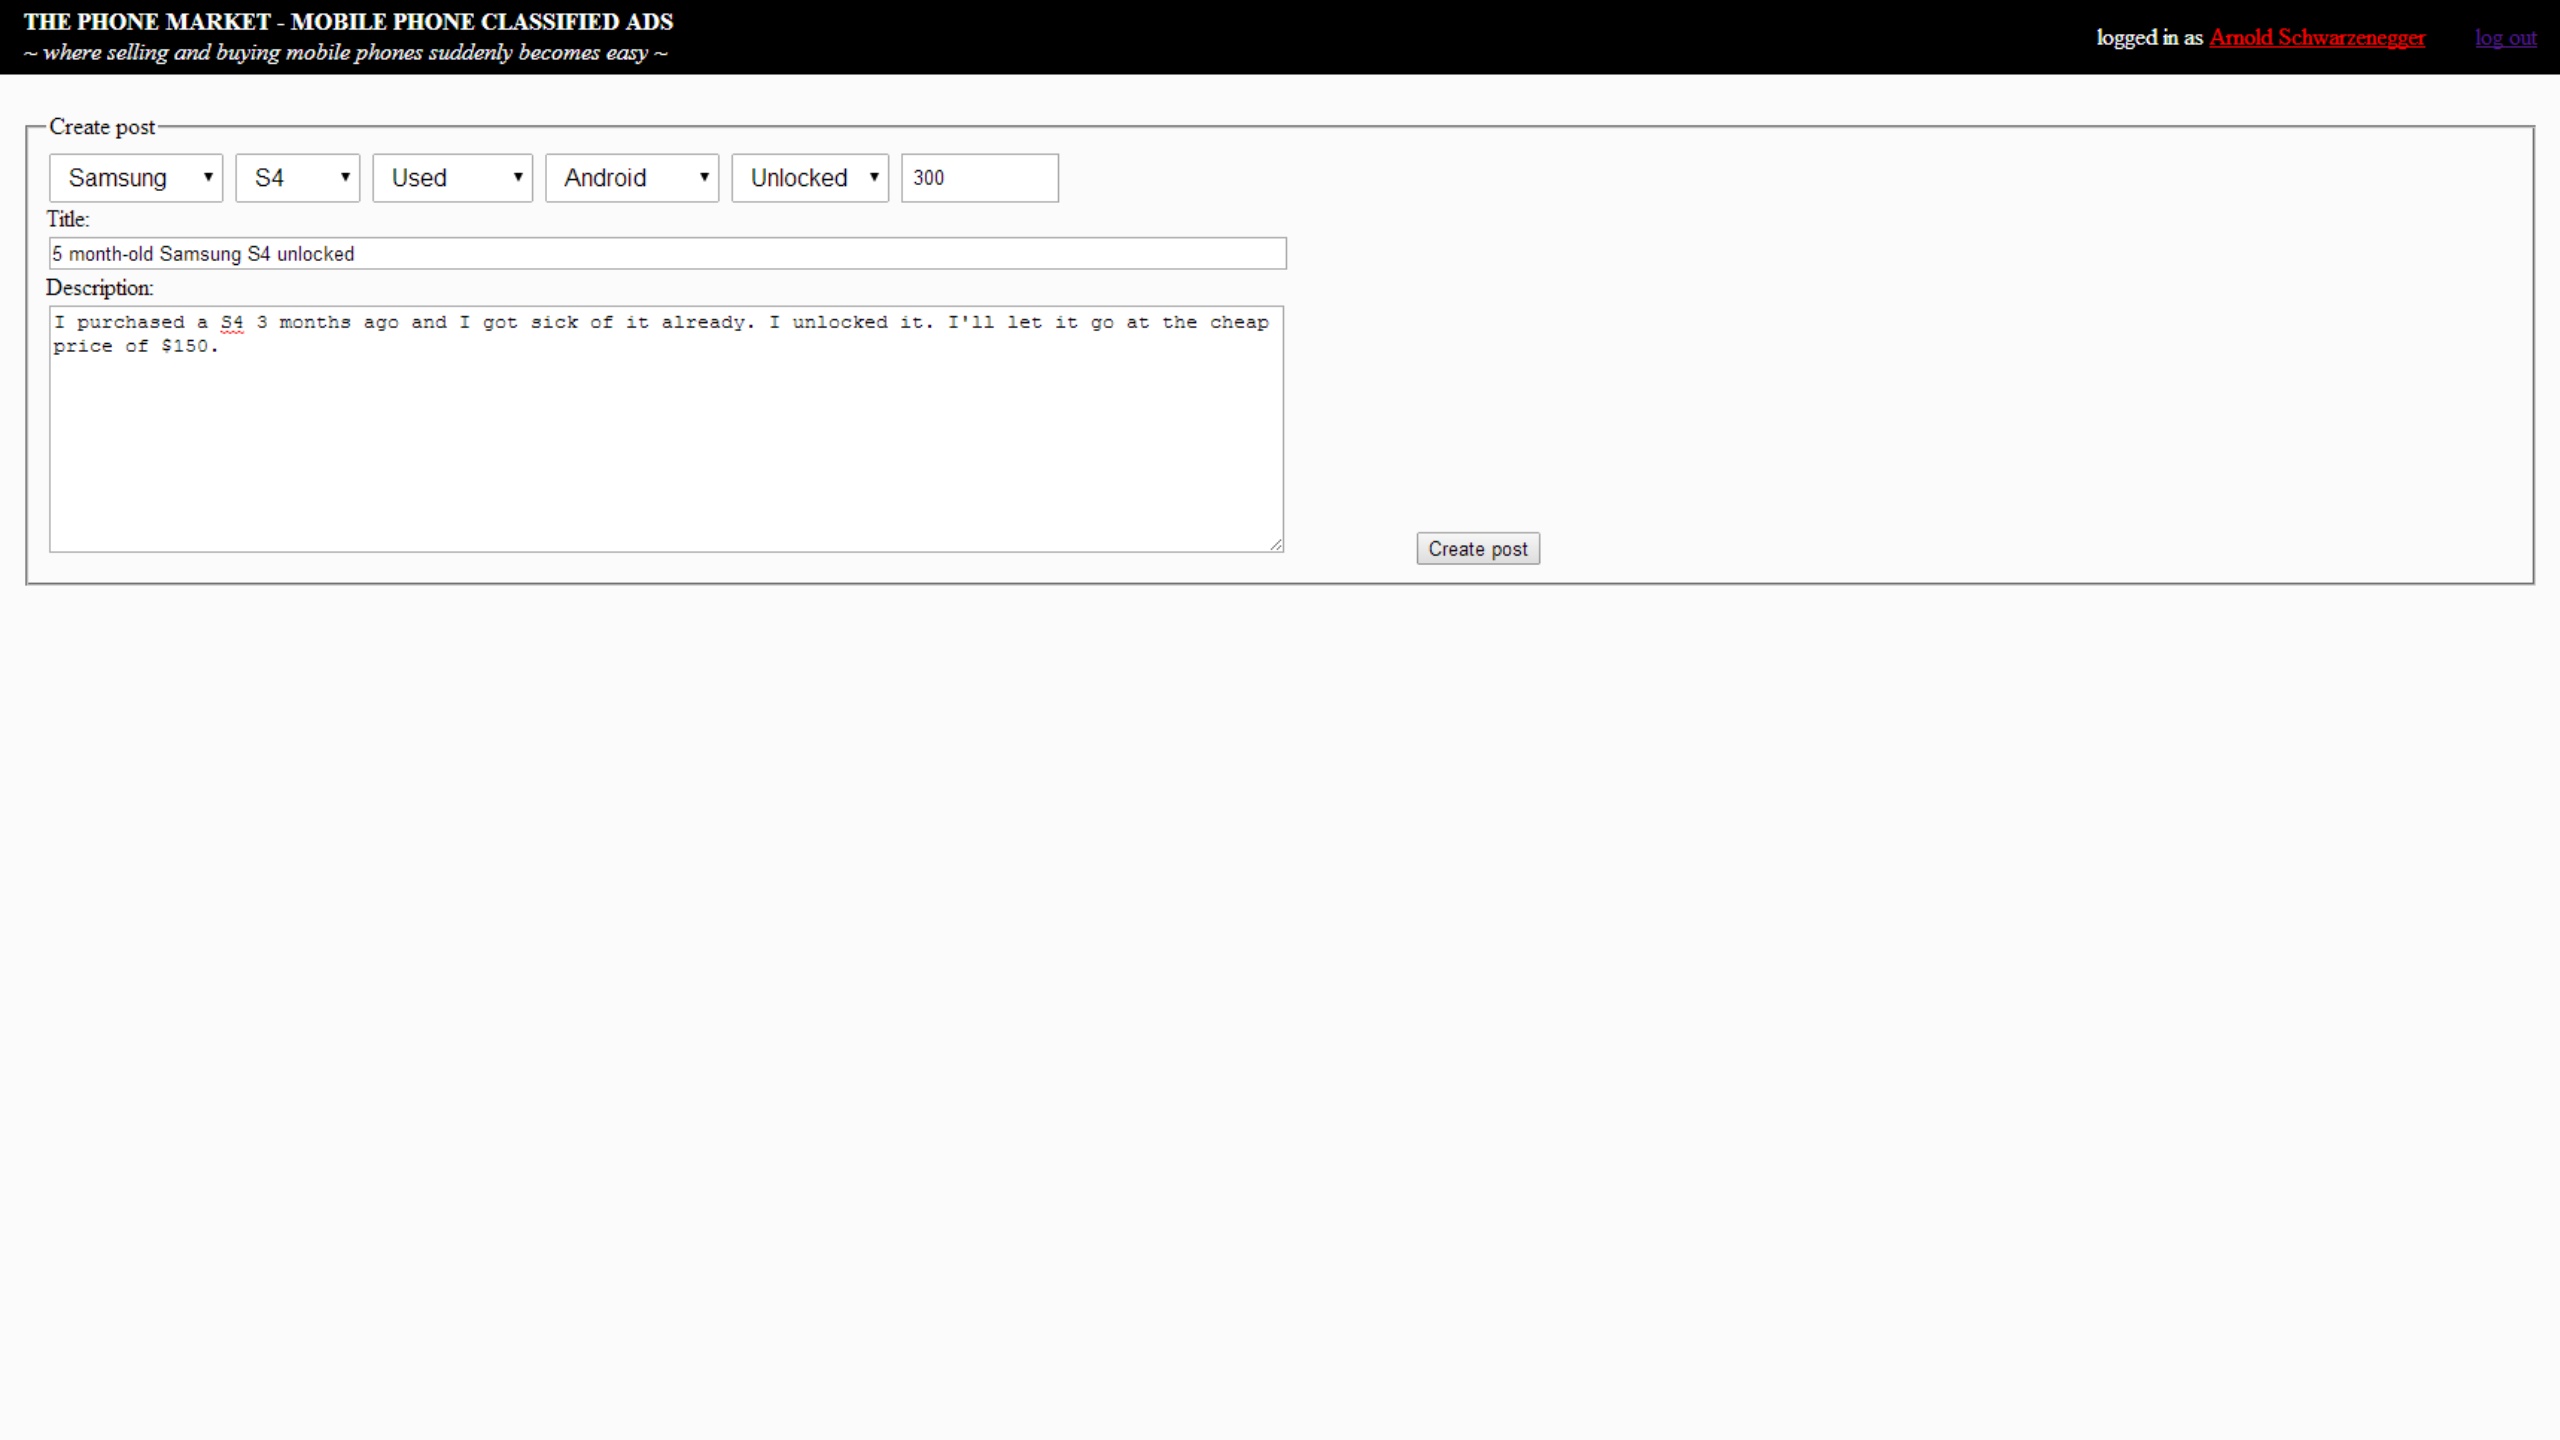
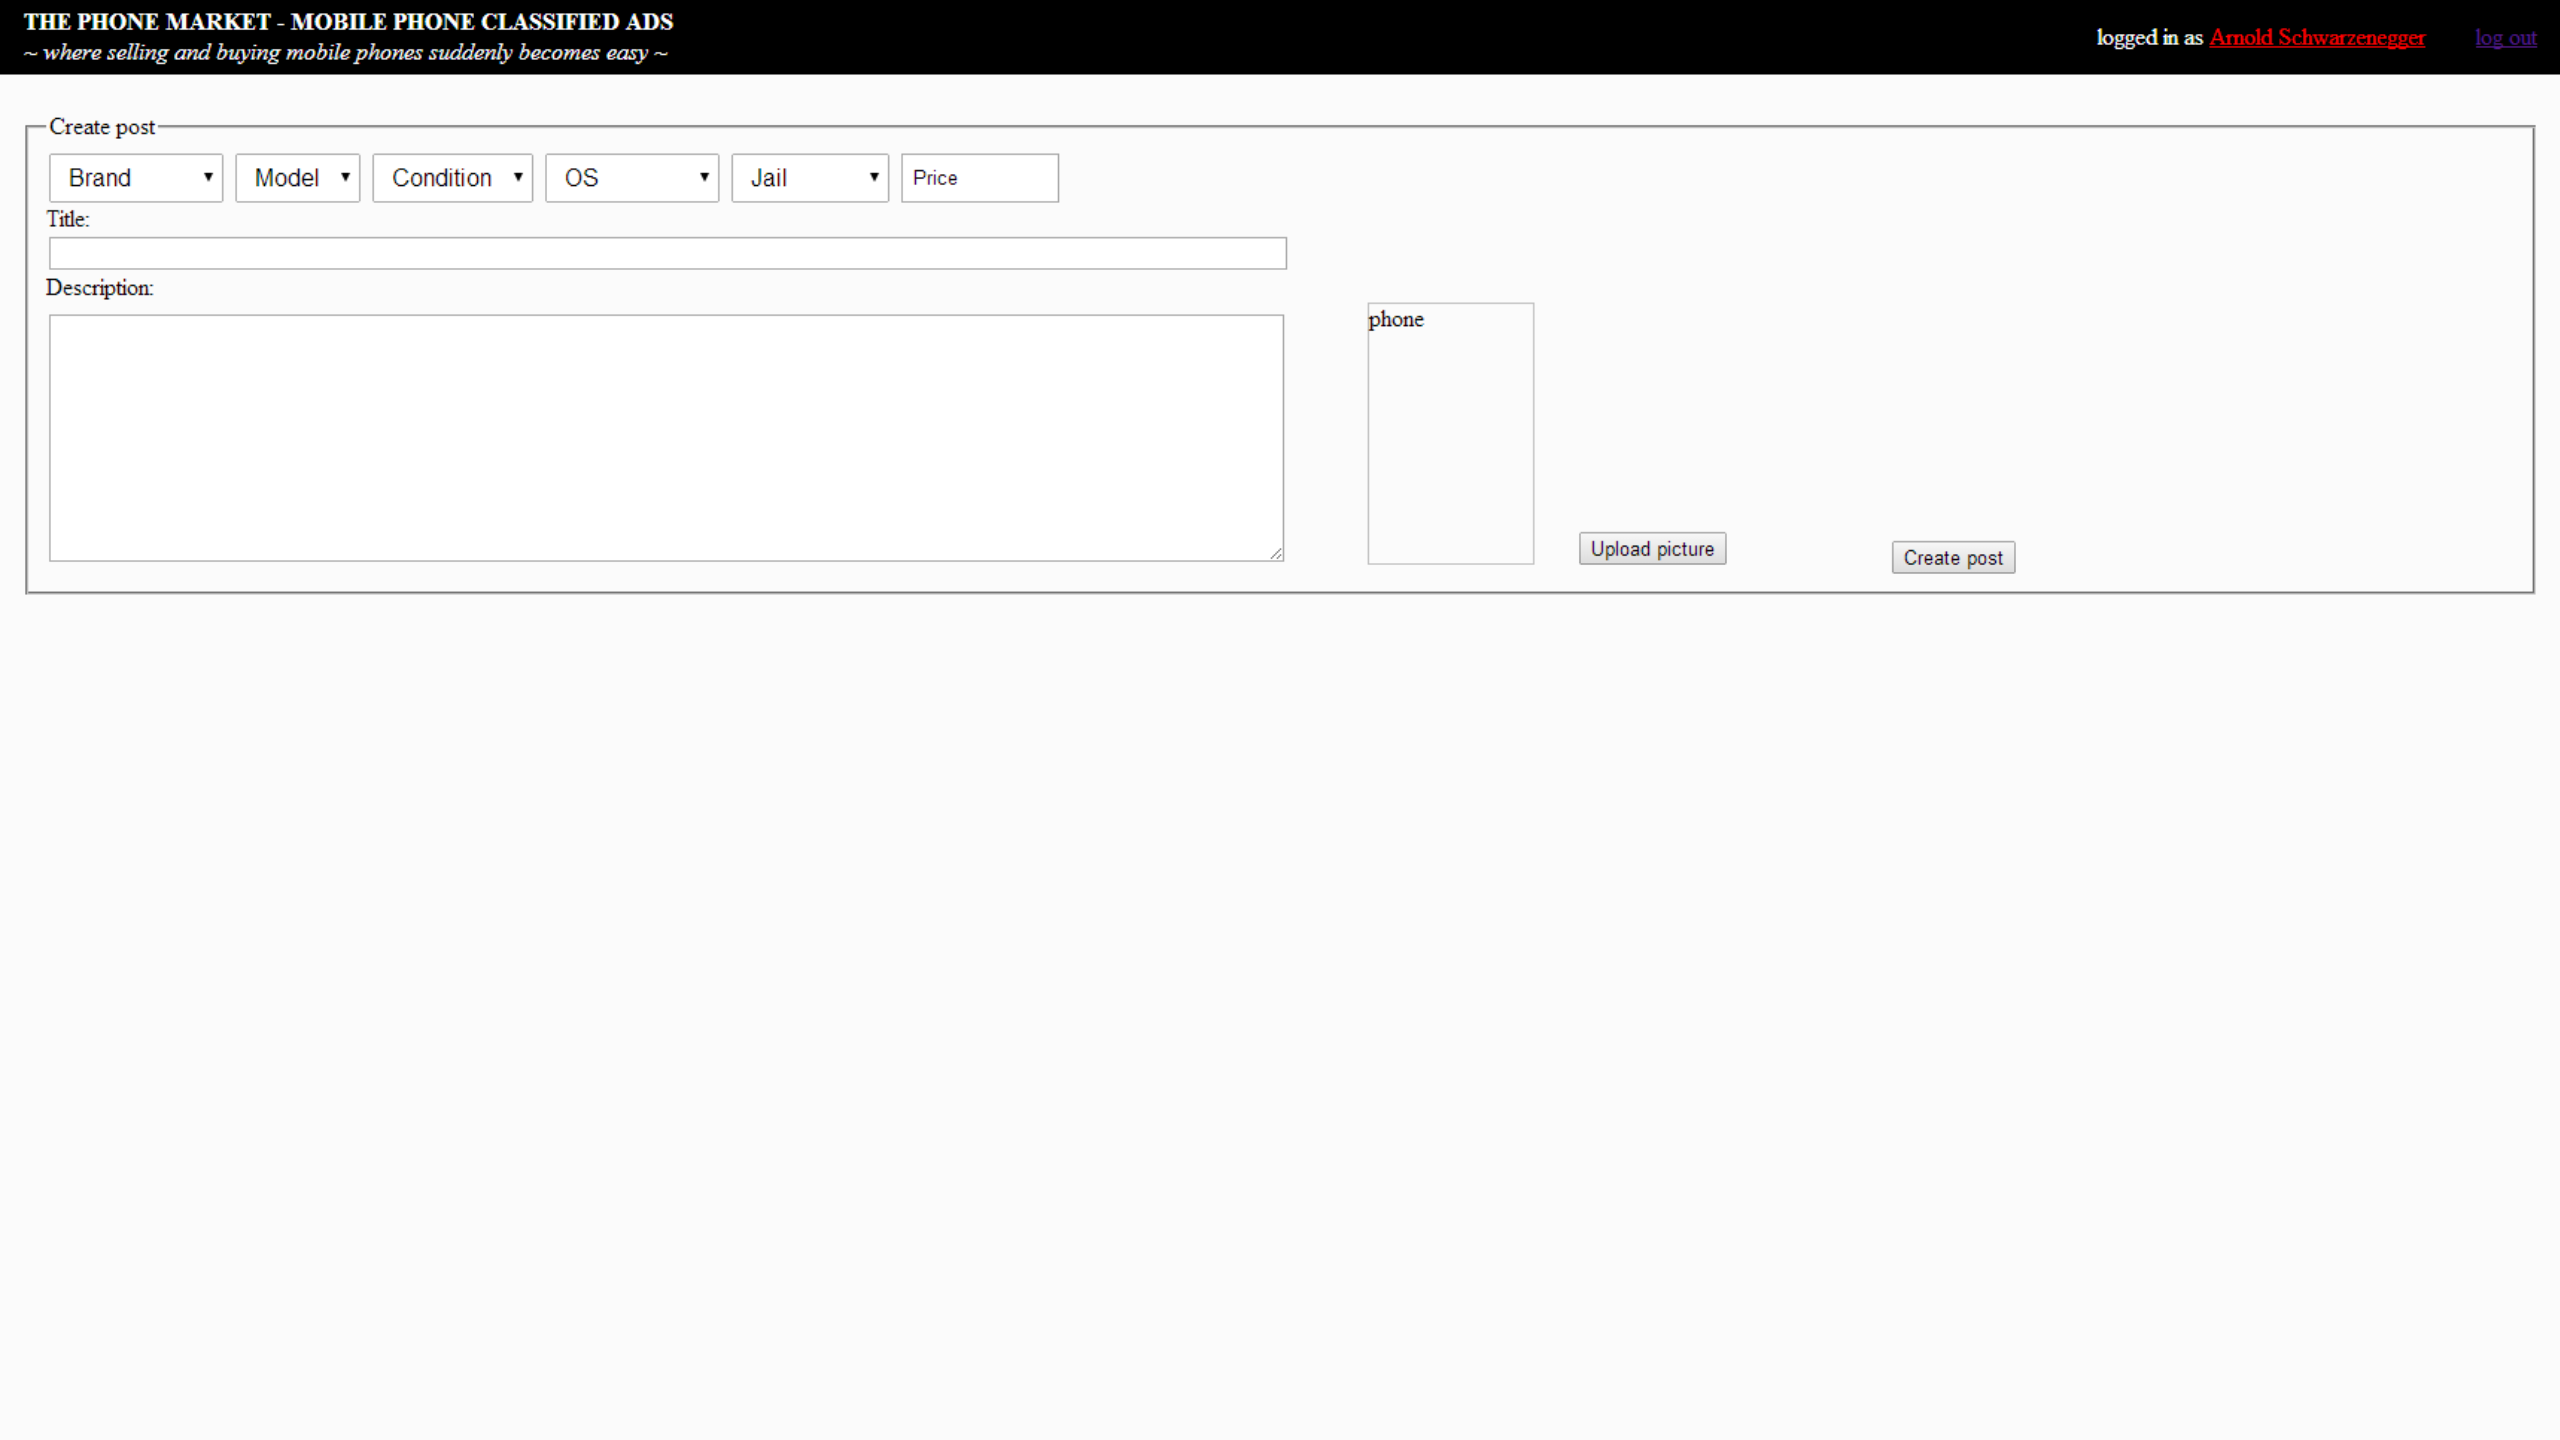
upload picture added

diff --git a/Website/create.html b/Website/create.html
@@ -70,6 +70,12 @@
                 <input id="title" name="title" type="text" size="133">
                 <label id="description" for="description">Description:</label>
                 <textarea rows="10" cols="101" id="description" name="description" type="text" size="10"></textarea>
+
+                <div class="uploadPic">
+                    <img class="pic" src="" alt="phone" />
+                    <input id="uploadPictureButton" type="submit" value="Upload picture">
+                </div>
+
                 <input id="createPostButton" type="submit" value="Create post">
             </form>
         </fieldset>

diff --git a/Website/style.css b/Website/style.css
@@ -307,6 +307,22 @@ img.adPic {
     display: inline-block;
 }
 
+#create-post .uploadPic {
+    display: inline-block;
+    margin-left: 3%;
+    min-width: 16%;
+}
+
+#create-post .pic {
+    width: 7em;
+    height: 11em;
+}
+
+#uploadPictureButton {
+    vertical-align: super;
+    margin-left: 10%;
+}
+
 #createPostButton {
     display: inline-block;
     margin-left: 5%;
